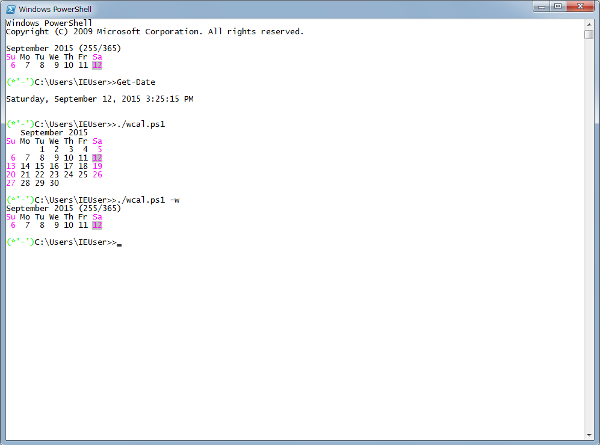
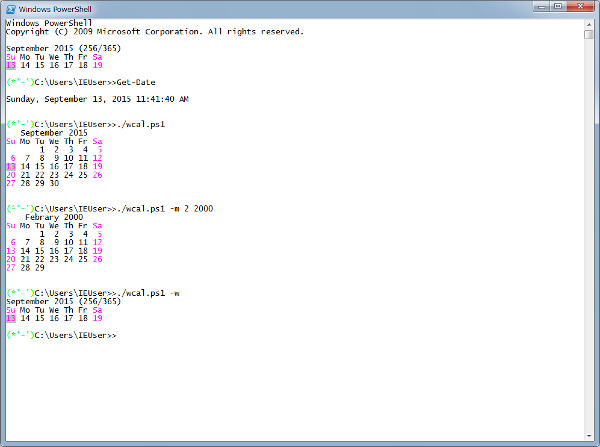
The optional month display is available.

diff --git a/README.md b/README.md
@@ -1,11 +1,11 @@
 #Display calendar for PowerShell.
 今週/今月のカレンダーを表示するPowerShellスクリプトです。  
 [shellscript版のxcal](https://github.com/Takeru-chan/xcal)をPowerShellで書き直しています。  
-とりあえず今月の表示まで。  
+まだ複数月の表示ができません。休日の表示も土日のみ。  
 
 ##Usage | 使い方
-引数なしで起動すると今月のカレンダーを表示します。  
-今日の日付をハイライト表示します。  
+引数なしで起動すると今月のカレンダーを表示し、今日の日付をハイライトします。  
+-mオプションに続けて表示月を指定できます。月指定に続けて年指定もできます。  
 オプションに"-w"を指定すると、今週のカレンダーのみを表示します。  
 $profileの最後に実行させると便利かな。。。  
 
